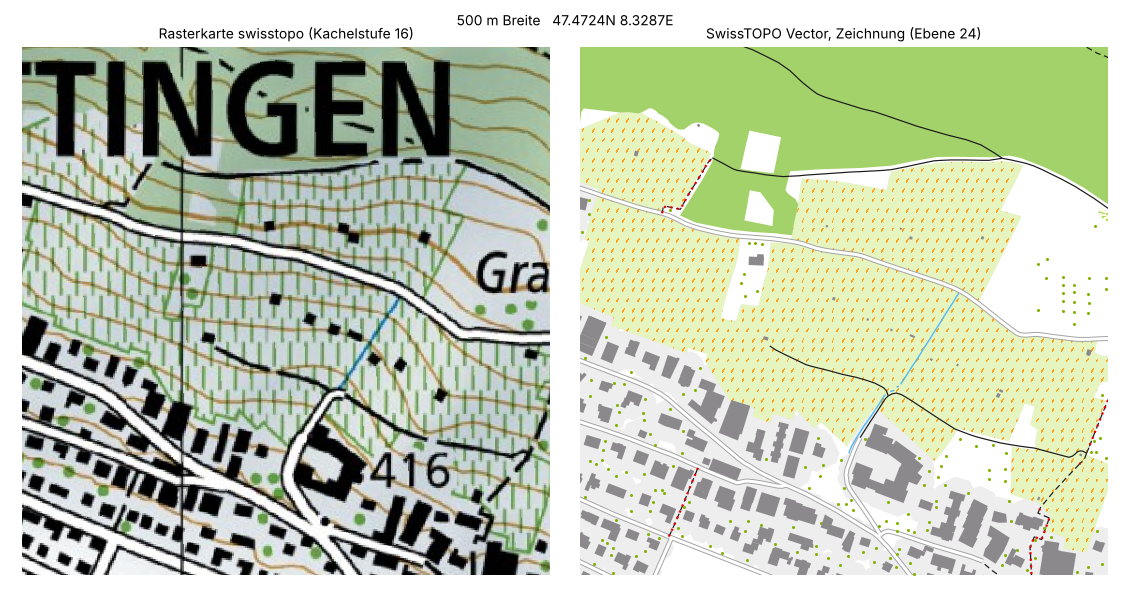
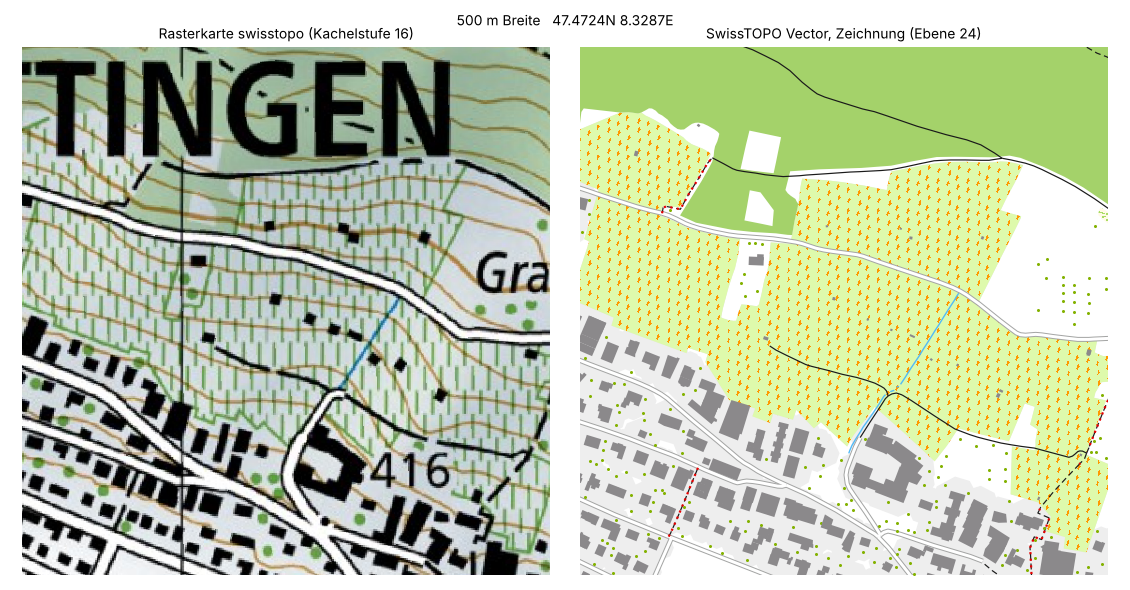
Fels and Reben tiles extracted from Garmin screenshots (personal use); extract_pattern.py
Claude-Session: https://claude.ai/code/session_01PSYnYYLKVXFpX9ESmrdTMw

Changed region(s): [[0.5265, 0.2136, 0.9912, 0.9153]]

diff --git a/scripts/vector_pattern_tiles.py b/scripts/vector_pattern_tiles.py
@@ -1,0 +1,73 @@
+"""Flaechenmuster, aus Bildschirmfotos der Garmin-Vektorkarte (Edge 1040) ausgelesen mit extract_pattern.py.
+Nur fuer den persoenlichen Gebrauch des Nutzers, der die Garmin-Lizenz besitzt; das Repo ist privat.
+'b' = Hintergrund, 'f' = Vordergrund. Fels: Kachel aus s08 (Spalten 5-36 der 64x40-Flaeche), Reben: Mehrheit ueber mehrere Perioden."""
+
+FELS = [
+    "bbffbbfbbbfffbffbbbbfbbbbbbffbbb",
+    "bbbbbffbfbbbbbbfffffffbfbbbbbfff",
+    "fbbbffbbfffbbbbbbbbbbfbbfbbbbbbf",
+    "ffbbfbbbbbbffffbbbbbbbbbfffbbbbb",
+    "bbbbfbfbbbbbbbffffbffbbbbbffbbbb",
+    "bbbffbffffbbbbbbbfffbbbbbbbfffbb",
+    "bbbbfbbbbbbbbffbbbbbfbbbbffbbffb",
+    "bbbbfbbffffbbbbffbbffbbbbbffbbff",
+    "fffbfbbbbbfffbbbfbbfbbffffbbbbbf",
+    "bbfbbffbbbbbbfbbbbffbbbbbbfffbbb",
+    "bffbbbffffffbffbbbfbbbbbbbbbffff",
+    "bfbbbbbbbbbffbbfbbbbfffffbbbbbbb",
+    "fbbfbbbffbbbbbbbffbbbbbbfffffbbb",
+    "ffbfffbbbffbbbbbbfffbbbbbbbbfffb",
+    "bffbbbffffbbbbfbbbbfffffbbbbbbbf",
+    "bbfffbbbbfffbbfbbbbbbbbbfffbbbfb",
+    "bbbbffffbbbbbfbbbfffbbbbbbbbbbfb",
+    "ffbbbbbffffbbbfbbbbbffffbbbbbffb",
+    "bffbbbbbbbfbbbfbbbbbbbbbfffbbbbb",
+    "bbbffbbbbbbbbbfbffffbbbbbbbfffbb",
+    "bbbbffffbbbbfbbbbbbbffffbbbbbbff",
+    "ffbbbbbbbbbfffbfbbbbbbbfbbbbbbbf",
+    "bbffbbbbbbffbbbffbbbbbbbbbbffbbb",
+    "bbbbfffbfffbbfbbbffffffbbbbfbbfb",
+    "ffbbbbfbfbbbbffbbbbbbbffbbfbbbbf",
+    "bbfffbbbfbbffbffbbbbbbbbfbbbfbbb",
+    "bbbbfffbfbbbfbbfffbbbbbbbfbbfffb",
+    "ffffbbbbfbbbbbbbbbfffbbbffbbbbff",
+    "bbbfffbffbfbbbbbbbbbffbbfbbffbbb",
+    "bbbbbfbbbbbffbffbbbbbbbffbbbbffb",
+    "fbbbbbfbbbbbfbbfffbbbbffbbbbbbbf",
+    "fffbbbfffbfbbfbbbfbbbfbbbffbbbbb",
+]
+
+REBEN = [
+    "bbbbbbbbbbbbbbbbbbbbfffbbbbbbbbb",
+    "fbbbbbbbbbbbbbbbbbbbffbbbbbbbbbb",
+    "fbbbbbbbbbbbbbbbbbbffbbbbbbbbbbf",
+    "ffbbbbbbbbbbbbbbbbbbfbbbbbbbbbbf",
+    "fbbbbbbbbbbfbbbbbbbbbbbbbbbbbbbf",
+    "bbbbbbbbbbffbbbbbbbbbbbbbbbbbbff",
+    "bbbbbbbbbbffbbbbbbbbbbbbbbbbbbbf",
+    "bbbbbbbbbbfffbbbbbbbbbbbbbbbbbbb",
+    "bbbbbbbbbfffbbbbbbbbbbbbbbbbbbbb",
+    "bbbbbbbbbbfbbbbbbbbfbbbbbbbbbbbb",
+    "bbbbbbbbbbbbbbbbbbffbbbbbbbbbbbb",
+    "bbbbbbbbbbbbbbbbbbfffbbbbbbbbbbb",
+    "bbbbbbbbbbbbbbbbbbffbbbbbbbbbbbf",
+    "bbbbbbbbbbbbbbbbbffbbbbbbbbbbbff",
+    "fbbbbbbbbbbbbbbbbbfbbbbbbbbbbbff",
+    "bbbbbbbbbfbbbbbbbbbbbbbbbbbbbbff",
+    "bbbbbbbbffbbbbbbbbbbbbbbbbbbbffb",
+    "bbbbbbbbfffbbbbbbbbbbbbbbbbbbbfb",
+    "bbbbbbbbffbbbbbbbbbbbbbbbbbbbbbb",
+    "bbbbbbbffbbbbbbbbbbbfbbbbbbbbbbb",
+    "bbbbbbbbfbbbbbbbbbbffbbbbbbbbbbb",
+    "bbbbbbbbbbbbbbbbbbbfffbbbbbbbbbb",
+    "bbbbbbbbbbbbbbbbbbbffbbbbbbbbbbf",
+    "bbbbbbbbbbbbbbbbbbffbbbbbbbbbbff",
+    "fbbbbbbbbbbbbbbbbbbfbbbbbbbbbbff",
+    "bbbbbbbbbbfbbbbbbbbbbbbbbbbbbbff",
+    "bbbbbbbbbffbbbbbbbbbbbbbbbbbbffb",
+    "bbbbbbbbbfffbbbbbbbbbbbbbbbbbbfb",
+    "bbbbbbbbbffbbbbbbbbbbbbbbbbbbbbb",
+    "bbbbbbbbffbbbbbbbbbbbbbbbbbbbbbb",
+    "bbbbbbbbbfbbbbbbbbbbbfbbbbbbbbbb",
+    "bbbbbbbbbbbbbbbbbbbbffbbbbbbbbbb",
+]

diff --git a/scripts/extract_pattern.py b/scripts/extract_pattern.py
@@ -1,0 +1,41 @@
+#!/usr/bin/env python3
+"""Liest aus einem Bildschirmfoto der Garmin-Karte das Flaechenmuster (Kachel) aus.
+
+  python3 extract_pattern.py bild.png x0 y0 x1 y1 "#BG" "#FG" [maxperiode]
+
+Nur Pixel in den beiden angegebenen Farben zaehlen (alles andere, z. B. Symbole, wird ignoriert). Gesucht wird die kleinste
+Periode (px, py), bei der die Pixel einer Kachelposition fast immer gleich sind; die Kachel ist die Mehrheit je Position.
+Ausgabe: Periode, Uebereinstimmung und die Kachel als Zeilen aus b/f.
+"""
+import sys
+import numpy as np
+from PIL import Image
+
+f, x0, y0, x1, y1 = sys.argv[1], *map(int, sys.argv[2:6])
+h2r = lambda h: tuple(int(h[i:i + 2], 16) for i in (1, 3, 5))
+bg, fg = h2r(sys.argv[6]), h2r(sys.argv[7])
+mp = int(sys.argv[8]) if len(sys.argv) > 8 else 40
+im = np.asarray(Image.open(f).convert("RGB"))[y0:y1, x0:x1].astype(int)
+isb, isf = (im == bg).all(-1), (im == fg).all(-1)
+valid = isb | isf
+best = None
+for py in range(4, mp + 1):
+    for px in range(4, mp + 1):
+        votes_f = np.zeros((py, px)); votes_b = np.zeros((py, px))
+        ys, xs = np.nonzero(valid)
+        np.add.at(votes_f, (ys % py, xs % px), isf[ys, xs]); np.add.at(votes_b, (ys % py, xs % px), isb[ys, xs])
+        tot = votes_f + votes_b
+        if (tot == 0).any():
+            continue
+        multi = tot >= 2
+        if multi.sum() < 0.2 * tot.size:
+            continue
+        agree = np.maximum(votes_f, votes_b)[multi].sum() / tot[multi].sum()
+        if agree > 0.985 and (best is None or px * py < best[0]):
+            best = (px * py, px, py, agree, votes_f > votes_b)
+if not best:
+    sys.exit("keine Periode gefunden")
+_, px, py, agree, tile = best
+print(f"Periode {px} x {py}, Uebereinstimmung {agree:.3f}")
+for r in tile:
+    print("".join("f" if v else "b" for v in r))

diff --git a/scripts/vector_patterns.py b/scripts/vector_patterns.py
@@ -1,6 +1,7 @@
 """32x32-Muster der Flaechen (gemeinsam fuer make_vector_typ.py und compare_vector.py). 'b' = Hintergrund, 'f' = Vordergrund."""
 import random
 from vector_palette import *  # noqa: F401,F403
+import vector_pattern_tiles as T
 
 
 def grid(density=0.0, run=1, seed=0, kind="strokes"):
@@ -42,8 +43,8 @@ def grid(density=0.0, run=1, seed=0, kind="strokes"):
 # Typ -> (Name, Hintergrund, Vordergrund, Muster)
 PATTERNS = {
     "0x4f": ("Gehoelz", BG, GEHOELZ, grid(0.30, 2, 1)),
-    "0x4e": ("Reben, Obst", REBEN_BG, REBEN, grid(kind="bolts")),
+    "0x4e": ("Reben, Obst", REBEN_BG, REBEN, T.REBEN),
     "0x51": ("Feuchtgebiet", BG, FEUCHT, grid(0.22, 3, 3)),
-    "0x52": ("Fels", FELS, FELS_TEXTUR, grid(0.34, 5, 7, kind="meander")),
+    "0x52": ("Fels", FELS, FELS_TEXTUR, T.FELS),
     "0x53": ("Geroell", BG, WEG_FEST, grid(0.14, 1, 5)),
 }

diff --git a/scripts/vector_palette.py b/scripts/vector_palette.py
@@ -13,7 +13,7 @@ SPORT = "#B4DC84"
 FRIEDHOF = "#CFE8AE"
 WEG = "#414041"         # Pfade, Wanderwege (gestrichelt)
 WEG_FEST = "#626162"    # Feldwege
-GEHOELZ = "#A9DC63"; REBEN = "#FFA21F"; REBEN_BG = "#E6F5C0"; FEUCHT = "#7FC8E8"; FELS = "#DEDEDE"; FELS_TEXTUR = "#A4A5A4"; GEROELL = "#EFEDE6"
+GEHOELZ = "#A9DC63"; REBEN = "#FF9900"; REBEN_BG = "#DEFAAC"; FEUCHT = "#7FC8E8"; FELS = "#DEDEDE"; FELS_TEXTUR = "#A4A5A4"; GEROELL = "#EFEDE6"
 AUTOBAHN = ("#FF9900", "#734400"); HAUPT = ("#FFCE62", "#B38600"); STRASSE = ("#FFFAFF", "#8B898B")
 NEBEN = ("#FFFFFF", "#A4A5A4"); NATUR = ("#F6F2D5", "#C9BE7A")
 SCHWARZ = "#1A1A1A"      # Wege nach swisstopo-Zeichenerklaerung (2 m-Weg, 1 m-Weg, markierte Spur)
